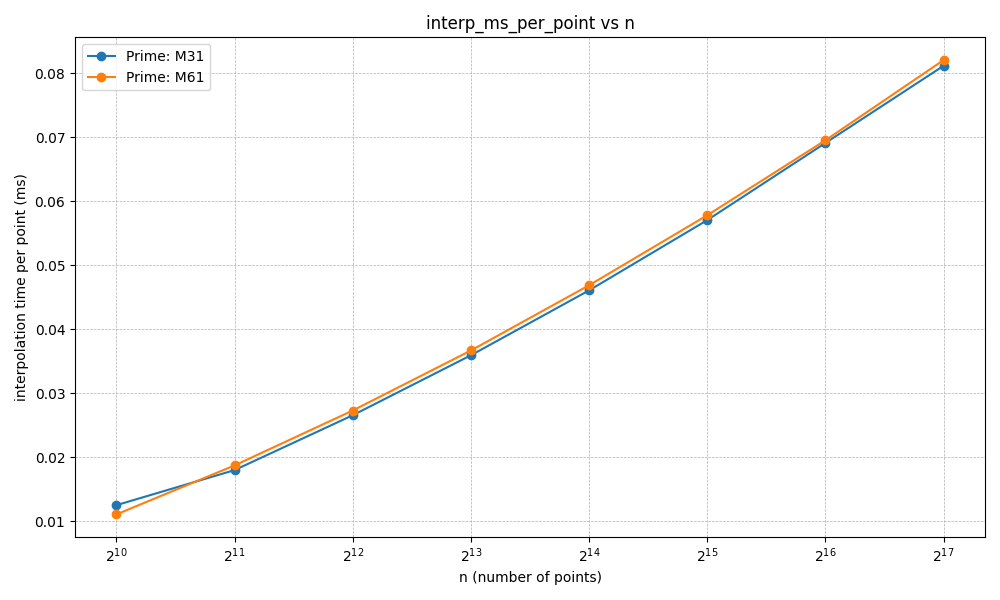
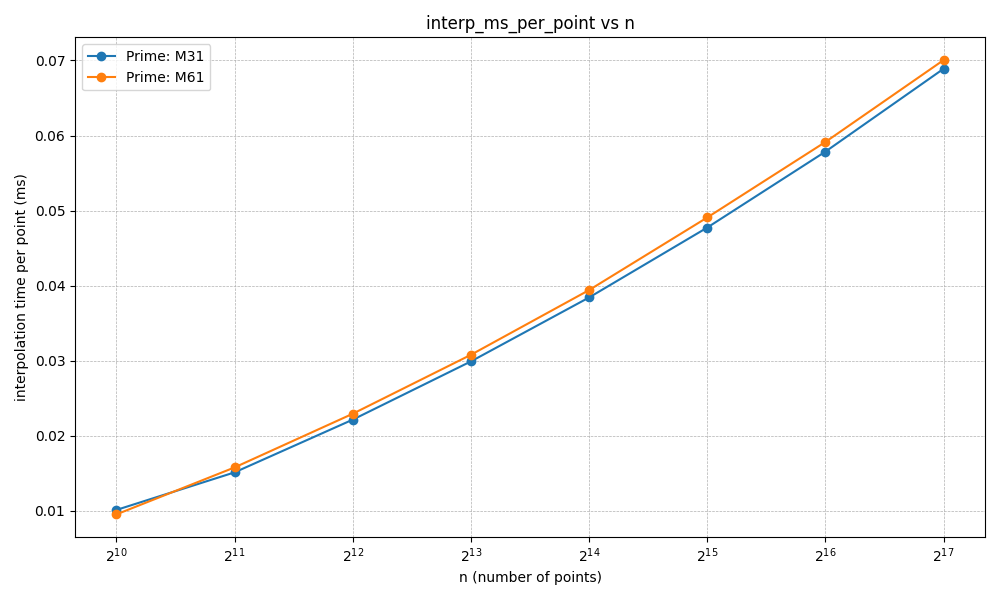
perf: specialize 6-mod CRT combine to replace generic Garner in mul/mul_trunc

diff --git a/include/poly_interp/fp_poly.hpp b/include/poly_interp/fp_poly.hpp
@@ -325,6 +325,126 @@ inline const GarnerPrecomp& garner_precomp() {
     return pc;
 }
 
+// -------------------- [CRT6] specialized CRT combiner for exactly 6 NTT primes --------------------
+struct CRT6Precomp {
+    static constexpr int K = 6;
+    std::array<u32, K> m{};
+
+    // group0: m0,m1,m2
+    u32 inv_m0_mod_m1 = 0;
+    u32 inv_m01_mod_m2 = 0;
+    u128 M01 = 0;
+    u128 M012 = 0;
+
+    // group1: m3,m4,m5
+    u32 inv_m3_mod_m4 = 0;
+    u32 inv_m34_mod_m5 = 0;
+    u128 M34 = 0;
+    u128 M345 = 0;
+
+    // inverses of M012 mod m3/m4/m5 (for the final merge step)
+    u32 inv_M012_mod_m3 = 0;
+    u32 inv_M012_mod_m4 = 0;
+    u32 inv_M012_mod_m5 = 0;
+
+    CRT6Precomp() {
+        static_assert(kNTT.size() == 6, "CRT6Precomp requires exactly 6 NTT primes");
+
+        for (int i = 0; i < K; ++i) m[i] = kNTT[i].mod;
+
+        // group0
+        // inv(m0 mod m1) mod m1
+        inv_m0_mod_m1 = inv_mod((u32)(m[0] % m[1]), m[1]);
+        M01 = (u128)m[0] * (u128)m[1];
+        inv_m01_mod_m2 = inv_mod((u32)(M01 % m[2]), m[2]);
+        M012 = M01 * (u128)m[2];
+
+        // group1
+        inv_m3_mod_m4 = inv_mod((u32)(m[3] % m[4]), m[4]);
+        M34 = (u128)m[3] * (u128)m[4];
+        inv_m34_mod_m5 = inv_mod((u32)(M34 % m[5]), m[5]);
+        M345 = M34 * (u128)m[5];
+
+        // inverses for merging: inv(M012 mod mi) mod mi, mi is prime
+        inv_M012_mod_m3 = inv_mod((u32)(M012 % m[3]), m[3]);
+        inv_M012_mod_m4 = inv_mod((u32)(M012 % m[4]), m[4]);
+        inv_M012_mod_m5 = inv_mod((u32)(M012 % m[5]), m[5]);
+    }
+};
+
+inline const CRT6Precomp& crt6_precomp() {
+    static const CRT6Precomp pc;
+    return pc;
+}
+
+// CRT for 3 primes (u128 result in [0, m0*m1*m2))
+inline u128 crt3_u128(u32 r0, u32 r1, u32 r2,
+                      u32 m0, u32 m1, u32 m2,
+                      u32 inv_m0_mod_m1, u32 inv_m01_mod_m2,
+                      u128 M01) {
+    // x = r0 + m0 * t1  (mod m0*m1)
+    u32 t1 = r1 >= r0 ? (r1 - r0) : (r1 + m1 - (r0 % m1));
+    t1 = (u32)((u64)t1 * inv_m0_mod_m1 % m1);
+    u128 x = (u128)r0 + (u128)m0 * (u128)t1;
+
+    // x = x + (m0*m1) * t2  (mod m0*m1*m2)
+    u32 x_mod_m2 = (u32)(x % m2);
+    u32 t2 = r2 >= x_mod_m2 ? (r2 - x_mod_m2) : (r2 + m2 - x_mod_m2);
+    t2 = (u32)((u64)t2 * inv_m01_mod_m2 % m2);
+    x += M01 * (u128)t2;
+    return x;
+}
+
+// Plan object bound to a specific target modulus p (M31/M61)
+struct CRT6Plan {
+    u64 p = 0;
+    u64 M012_mod_p = 0;
+
+    CRT6Plan() = default;
+    explicit CRT6Plan(u64 mod_p) : p(mod_p) {
+        const auto& pc = crt6_precomp();
+        M012_mod_p = (u64)(pc.M012 % (u128)p);
+    }
+
+    inline u64 combine_to_mod_p(const u32* r6) const {
+        const auto& pc = crt6_precomp();
+
+        // a in [0, M012)
+        const u128 a = crt3_u128(r6[0], r6[1], r6[2],
+                                 pc.m[0], pc.m[1], pc.m[2],
+                                 pc.inv_m0_mod_m1, pc.inv_m01_mod_m2,
+                                 pc.M01);
+
+        // compute t modulo m3,m4,m5: t ≡ (r - a) * inv(M012) (mod mi)
+        const u32 a_mod_m3 = (u32)(a % pc.m[3]);
+        const u32 a_mod_m4 = (u32)(a % pc.m[4]);
+        const u32 a_mod_m5 = (u32)(a % pc.m[5]);
+
+        u32 t3 = r6[3] >= a_mod_m3 ? (r6[3] - a_mod_m3) : (r6[3] + pc.m[3] - a_mod_m3);
+        u32 t4 = r6[4] >= a_mod_m4 ? (r6[4] - a_mod_m4) : (r6[4] + pc.m[4] - a_mod_m4);
+        u32 t5 = r6[5] >= a_mod_m5 ? (r6[5] - a_mod_m5) : (r6[5] + pc.m[5] - a_mod_m5);
+
+        t3 = (u32)((u64)t3 * pc.inv_M012_mod_m3 % pc.m[3]);
+        t4 = (u32)((u64)t4 * pc.inv_M012_mod_m4 % pc.m[4]);
+        t5 = (u32)((u64)t5 * pc.inv_M012_mod_m5 % pc.m[5]);
+
+        // t in [0, M345)
+        const u128 t = crt3_u128(t3, t4, t5,
+                                 pc.m[3], pc.m[4], pc.m[5],
+                                 pc.inv_m3_mod_m4, pc.inv_m34_mod_m5,
+                                 pc.M34);
+
+        // x = a + M012 * t   (mod p)
+        const u64 a_mod_p = (u64)(a % (u128)p);
+        const u64 t_mod_p = (u64)(t % (u128)p);
+        const u64 add = (u64)((u128)M012_mod_p * (u128)t_mod_p % (u128)p);
+        u64 res = a_mod_p + add;
+        if (res >= p) res -= p;
+        return res;
+    }
+};
+
+
 // Compute CRT solution x modulo target prime p (u64), using Garner, without big integers.
 // residues r[i] are mod mods[i] (u32).
 inline u64 garner_crt_to_mod_p(const u32* r, u64 p) {
@@ -552,11 +672,13 @@ public:
         std::vector<Fp> out(need, F.zero());
         std::vector<detail::u32> r(detail::kNTT.size());
 
+        pf::detail::CRT6Plan crt_plan(p);
+
         for (std::size_t idx = 0; idx < need; ++idx) {
-            for (std::size_t k = 0; k < detail::kNTT.size(); ++k) {
+            for (std::size_t k = 0; k < pf::detail::kNTT.size(); ++k) {
                 r[k] = residues[k][idx];
             }
-            u64 val = detail::garner_crt_to_mod_p(r.data(), p);
+            u64 val = crt_plan.combine_to_mod_p(r.data());
             out[idx] = Fp{val};
         }
 
@@ -827,7 +949,12 @@ inline pf::FpPoly pf::FpPoly::mul_trunc_poly(const FpPoly& a, const FpPoly& b, s
 
     // 大规模：NTT/CRT，但只对低位需要的部分做输入截断，并且只合并 out_need 个系数
     const u64 p = F.modulus();
+
+    // [CRT6] build plan once
+    pf::detail::CRT6Plan crt_plan(p);
+
     constexpr std::size_t K = pf::detail::kNTT.size();
+    static_assert(K == 6, "mul_trunc_poly CRT specialization assumes kNTT.size()==6");
 
     std::vector<std::vector<pf::detail::u32>> residues;
     residues.resize(K);
@@ -840,18 +967,17 @@ inline pf::FpPoly pf::FpPoly::mul_trunc_poly(const FpPoly& a, const FpPoly& b, s
         for (size_type j = 0; j < bn; ++j) B32[j] = (pf::detail::u32)(b.c_[j].v % prm.mod);
 
         residues[idxp] = pf::detail::convolution_mod_ntt(A32, B32, idxp);
-        // 只保留我们需要合并的前 out_need 项（节省内存/后续访问）
         if (residues[idxp].size() > out_need) residues[idxp].resize(out_need);
     }
 
     std::vector<Fp> out(out_need, F.zero());
-    std::array<pf::detail::u32, K> r{};
+    std::array<pf::detail::u32, 6> r{};   // [CRT6] fixed size
 
     for (size_type i = 0; i < out_need; ++i) {
         for (std::size_t idxp = 0; idxp < K; ++idxp) {
             r[idxp] = residues[idxp][i];
         }
-        const u64 val = pf::detail::garner_crt_to_mod_p(r.data(), p);
+        const u64 val = crt_plan.combine_to_mod_p(r.data());  // [CRT6] replace Garner
         out[i] = Fp{val};
     }
 
